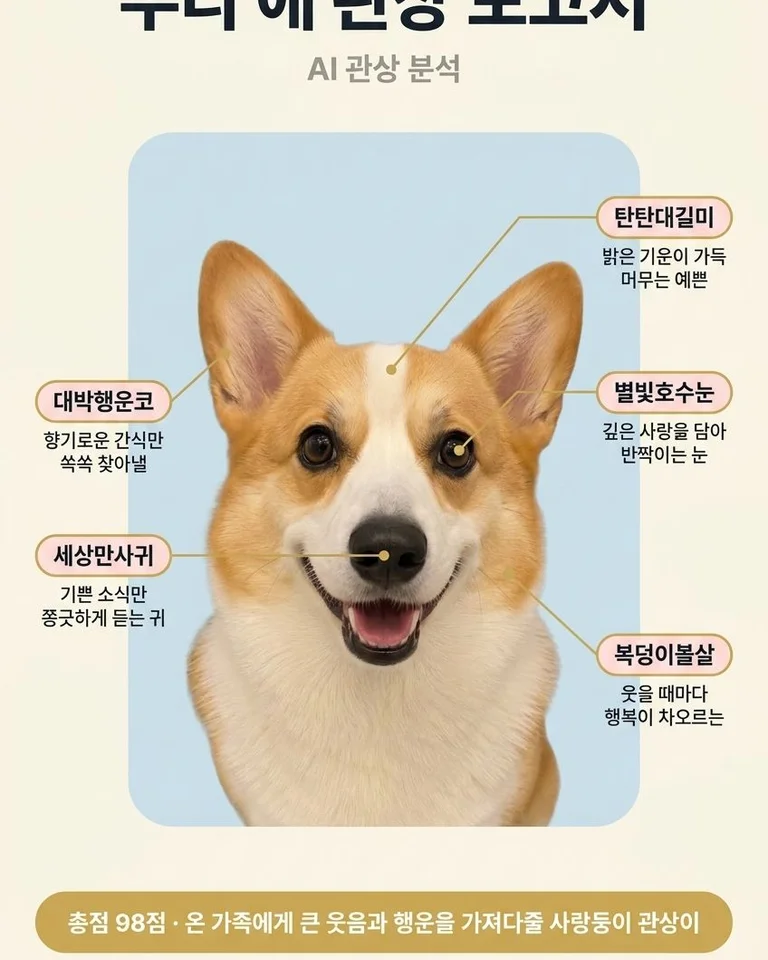
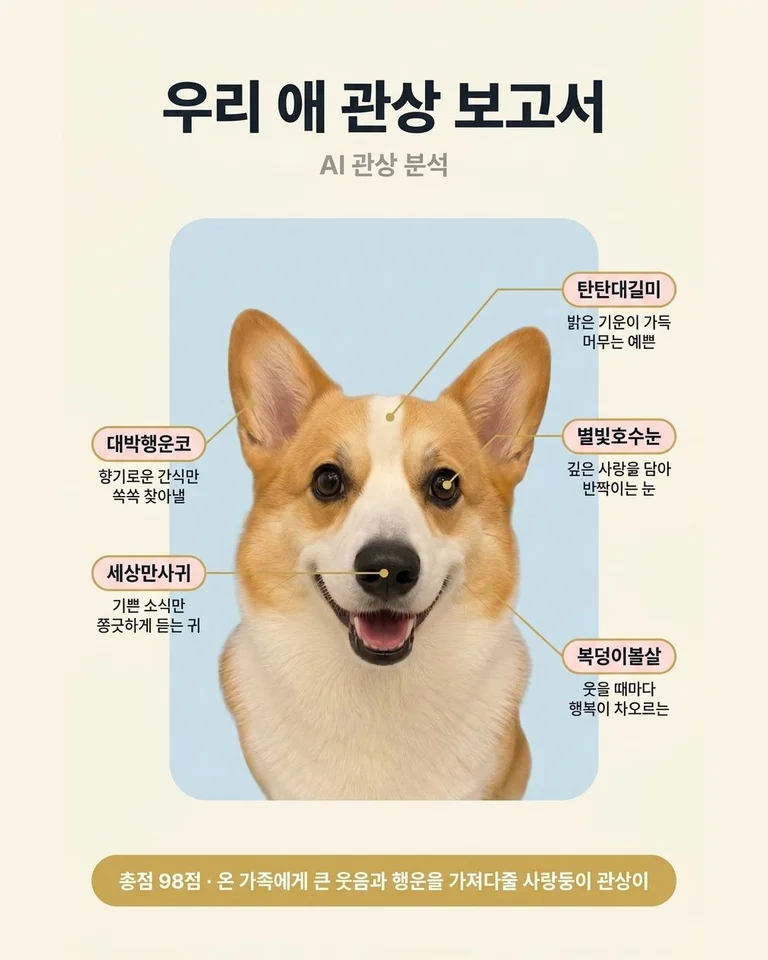
BA 예시 전수 보강 — 누락 등록·얼굴 중앙 배치 교정

diff --git a/app/lib/concepts.ts b/app/lib/concepts.ts
@@ -25,7 +25,7 @@ export const LIVE_COIN_CONCEPTS: string[] = ["travel"];
 export const POPULAR_KEYS: string[] = ["idblack", "idnavy", "biznavy", "bizgray", "lifeshot", "y2k", "luxe", "idol", "travel", "couple", "friend", "duofamily", "petstudio", "petcostume", "clay", "figure", "roman", "wedding", "graduation", "hairstyle"];
 
 // 비포/애프터 라이브 컨셉 — 자산(public/examples/ba/{key}-*.webp) 준비된 키만 (확산 단일 지점, LIVE_COIN 패턴)
-export const BA_LIVE: string[] = ["nukki", "y2k", "idtweed", "bizpinkjacket", "travel", "restore", "interior", "idashwave", "idbeige", "idbeigeblazer", "idblack", "idblacktie", "idblouse", "idburgundy", "idcharcoal", "iddandy", "iddownperm", "iddropcut", "idgarma", "idhenley", "idhime", "idknit", "idlonghair", "idlowbun", "idnavy", "idnavysuit", "idoffshoulder", "idperm", "idpomade", "idponytail", "idturtleneck", "idupdo", "idwarmbob", "idwavebob", "idwhiteshirt", "bizblackdress", "bizbluegray", "bizblueskirt", "bizburgundy", "bizcheck", "bizkhaki", "bizknitdress", "bizpinstripe", "bizviolet", "bizgray", "biznavy", "biznavyblouse", "bizlavender", "bizbeige", "bizskyblouse", "bizchiffon", "bizcreamdress", "bizpinktweed", "idskyblue", "birthday", "clay", "flower", "graduation", "hanbok", "hocance", "homecafe", "lifeshot", "luxe", "redcarpet", "retro90", "roman", "xmas", "fashion", "hairstyle", "era", "halloween", "job", "sporty", "wedding", "pet", "petstudio", "illust", "realestate", "car", "figure", "product", "petbirthday", "petceo", "petcostume", "petgraduation", "petjob", "petmemorial", "petminhwa", "petreceipt", "petroyal", "pettwo", "voxel", "baby", "pendrawing", "oilportrait", "softanime", "retroanime", "popart", "marble", "chibifigure", "clayfigure", "stitchart", "pixelart", "stainedglass", "neonsign", "paperart", "stickerpack", "toon3d"];
+export const BA_LIVE: string[] = ["nukki", "y2k", "idtweed", "bizpinkjacket", "travel", "restore", "interior", "idashwave", "idbeige", "idbeigeblazer", "idblack", "idblacktie", "idblouse", "idburgundy", "idcharcoal", "iddandy", "iddownperm", "iddropcut", "idgarma", "idhenley", "idhime", "idknit", "idlonghair", "idlowbun", "idnavy", "idnavysuit", "idoffshoulder", "idperm", "idpomade", "idponytail", "idturtleneck", "idupdo", "idwarmbob", "idwavebob", "idwhiteshirt", "bizblackdress", "bizbluegray", "bizblueskirt", "bizburgundy", "bizcheck", "bizkhaki", "bizknitdress", "bizpinstripe", "bizviolet", "bizgray", "biznavy", "biznavyblouse", "bizlavender", "bizbeige", "bizskyblouse", "bizchiffon", "bizcreamdress", "bizpinktweed", "idskyblue", "birthday", "clay", "flower", "graduation", "hanbok", "hocance", "homecafe", "lifeshot", "luxe", "redcarpet", "retro90", "roman", "xmas", "fashion", "hairstyle", "era", "halloween", "job", "sporty", "wedding", "pet", "petstudio", "illust", "realestate", "car", "figure", "product", "petbirthday", "petceo", "petcostume", "petgraduation", "petjob", "petmemorial", "petminhwa", "petreceipt", "petroyal", "pettwo", "voxel", "baby", "pendrawing", "oilportrait", "softanime", "retroanime", "popart", "marble", "chibifigure", "clayfigure", "stitchart", "pixelart", "stainedglass", "neonsign", "paperart", "stickerpack", "toon3d", "idol", "food", "factory"];
 
 export const CONCEPTS: Record<string, Concept> = {
   baby: {

diff --git a/app/food/page.tsx b/app/food/page.tsx
@@ -7,6 +7,8 @@ import { saveImage } from "../lib/saveImage";
 import { shareImage } from "../lib/shareImage";
 import Upscale4K from "../components/Upscale4K";
 import { useBackClose, backCloseGhostCount } from "../lib/useBackClose";
+import BeforeAfterHero from "../components/BeforeAfterHero";
+import { BA_LIVE } from "../lib/concepts";
 import PreviewCard from "../components/upload/PreviewCard";
 import StepIndicator from "../components/upload/StepIndicator";
 import UploadZone from "../components/upload/UploadZone";
@@ -80,7 +82,15 @@ export default function FoodPage() {
       <div style={{ padding: "18px 18px 100px" }}>
         {!result && (
           <>
-            <PreviewCard image="/details/food.webp" caption="메뉴판·광고용 사진으로, 미리 만나보세요" placeholder="🍽" />
+            {/* 결과 예시 — BA_LIVE면 비포/애프터 라이브, 아니면 기존 PreviewCard (무변화 폴백) */}
+            {BA_LIVE.includes("food") ? (
+              <BeforeAfterHero pairs={[1, 2, 3].flatMap(n => [
+                { before: `/examples/ba/food-before-${n}.webp`, after: `/examples/ba/food-after-${n}.webp` },
+                { before: `/examples/ba/food-before.webp`, after: `/examples/ba/food-after-${n}.webp` },
+              ])} />
+            ) : (
+              <PreviewCard image="/details/food.webp" caption="메뉴판·광고용 사진으로, 미리 만나보세요" placeholder="🍽" />
+            )}
             <StepIndicator current={result ? 3 : loading ? 2 : 1} />
             <UploadZone
               label="음식 사진"

diff --git a/app/factory/page.tsx b/app/factory/page.tsx
@@ -7,6 +7,8 @@ import { saveImage } from "../lib/saveImage";
 import { shareImage } from "../lib/shareImage";
 import Upscale4K from "../components/Upscale4K";
 import { useBackClose, backCloseGhostCount } from "../lib/useBackClose";
+import BeforeAfterHero from "../components/BeforeAfterHero";
+import { BA_LIVE } from "../lib/concepts";
 import PreviewCard from "../components/upload/PreviewCard";
 import StepIndicator from "../components/upload/StepIndicator";
 import UploadZone from "../components/upload/UploadZone";
@@ -80,7 +82,15 @@ export default function FactoryPage() {
       <div style={{ padding: "18px 18px 100px" }}>
         {!result && (
           <>
-            <PreviewCard image="/details/factory.webp" caption="공장 리모델링, 미리 만나보세요" />
+            {/* 결과 예시 — BA_LIVE면 비포/애프터 라이브, 아니면 기존 PreviewCard (무변화 폴백) */}
+            {BA_LIVE.includes("factory") ? (
+              <BeforeAfterHero pairs={[1, 2, 3].flatMap(n => [
+                { before: `/examples/ba/factory-before-${n}.webp`, after: `/examples/ba/factory-after-${n}.webp` },
+                { before: `/examples/ba/factory-before.webp`, after: `/examples/ba/factory-after-${n}.webp` },
+              ])} />
+            ) : (
+              <PreviewCard image="/details/factory.webp" caption="공장 리모델링, 미리 만나보세요" />
+            )}
             <StepIndicator current={result ? 3 : loading ? 2 : 1} />
             <UploadZone
               label="공장 사진"

diff --git a/app/idol/page.tsx b/app/idol/page.tsx
@@ -7,6 +7,8 @@ import { saveImage } from "../lib/saveImage";
 import { shareImage } from "../lib/shareImage";
 import Upscale4K from "../components/Upscale4K";
 import { useBackClose, backCloseGhostCount } from "../lib/useBackClose";
+import BeforeAfterHero from "../components/BeforeAfterHero";
+import { BA_LIVE } from "../lib/concepts";
 import PreviewCard from "../components/upload/PreviewCard";
 import StepIndicator from "../components/upload/StepIndicator";
 import UploadZone from "../components/upload/UploadZone";
@@ -80,7 +82,15 @@ export default function IdolPage() {
       <div style={{ padding: "18px 18px 100px" }}>
         {!result && (
           <>
-            <PreviewCard placeholder="👤" caption="아이돌 프로필, 미리 만나보세요" />
+            {/* 결과 예시 — BA_LIVE면 비포/애프터 라이브, 아니면 기존 PreviewCard (무변화 폴백) */}
+            {BA_LIVE.includes("idol") ? (
+              <BeforeAfterHero pairs={[1, 2, 3].flatMap(n => [
+                { before: `/examples/ba/idol-before-${n}.webp`, after: `/examples/ba/idol-after-${n}.webp` },
+                { before: `/examples/ba/idol-before.webp`, after: `/examples/ba/idol-after-${n}.webp` },
+              ])} />
+            ) : (
+              <PreviewCard placeholder="👤" caption="아이돌 프로필, 미리 만나보세요" />
+            )}
             <StepIndicator current={result ? 3 : loading ? 2 : 1} />
             <UploadZone
               label="내 사진"
